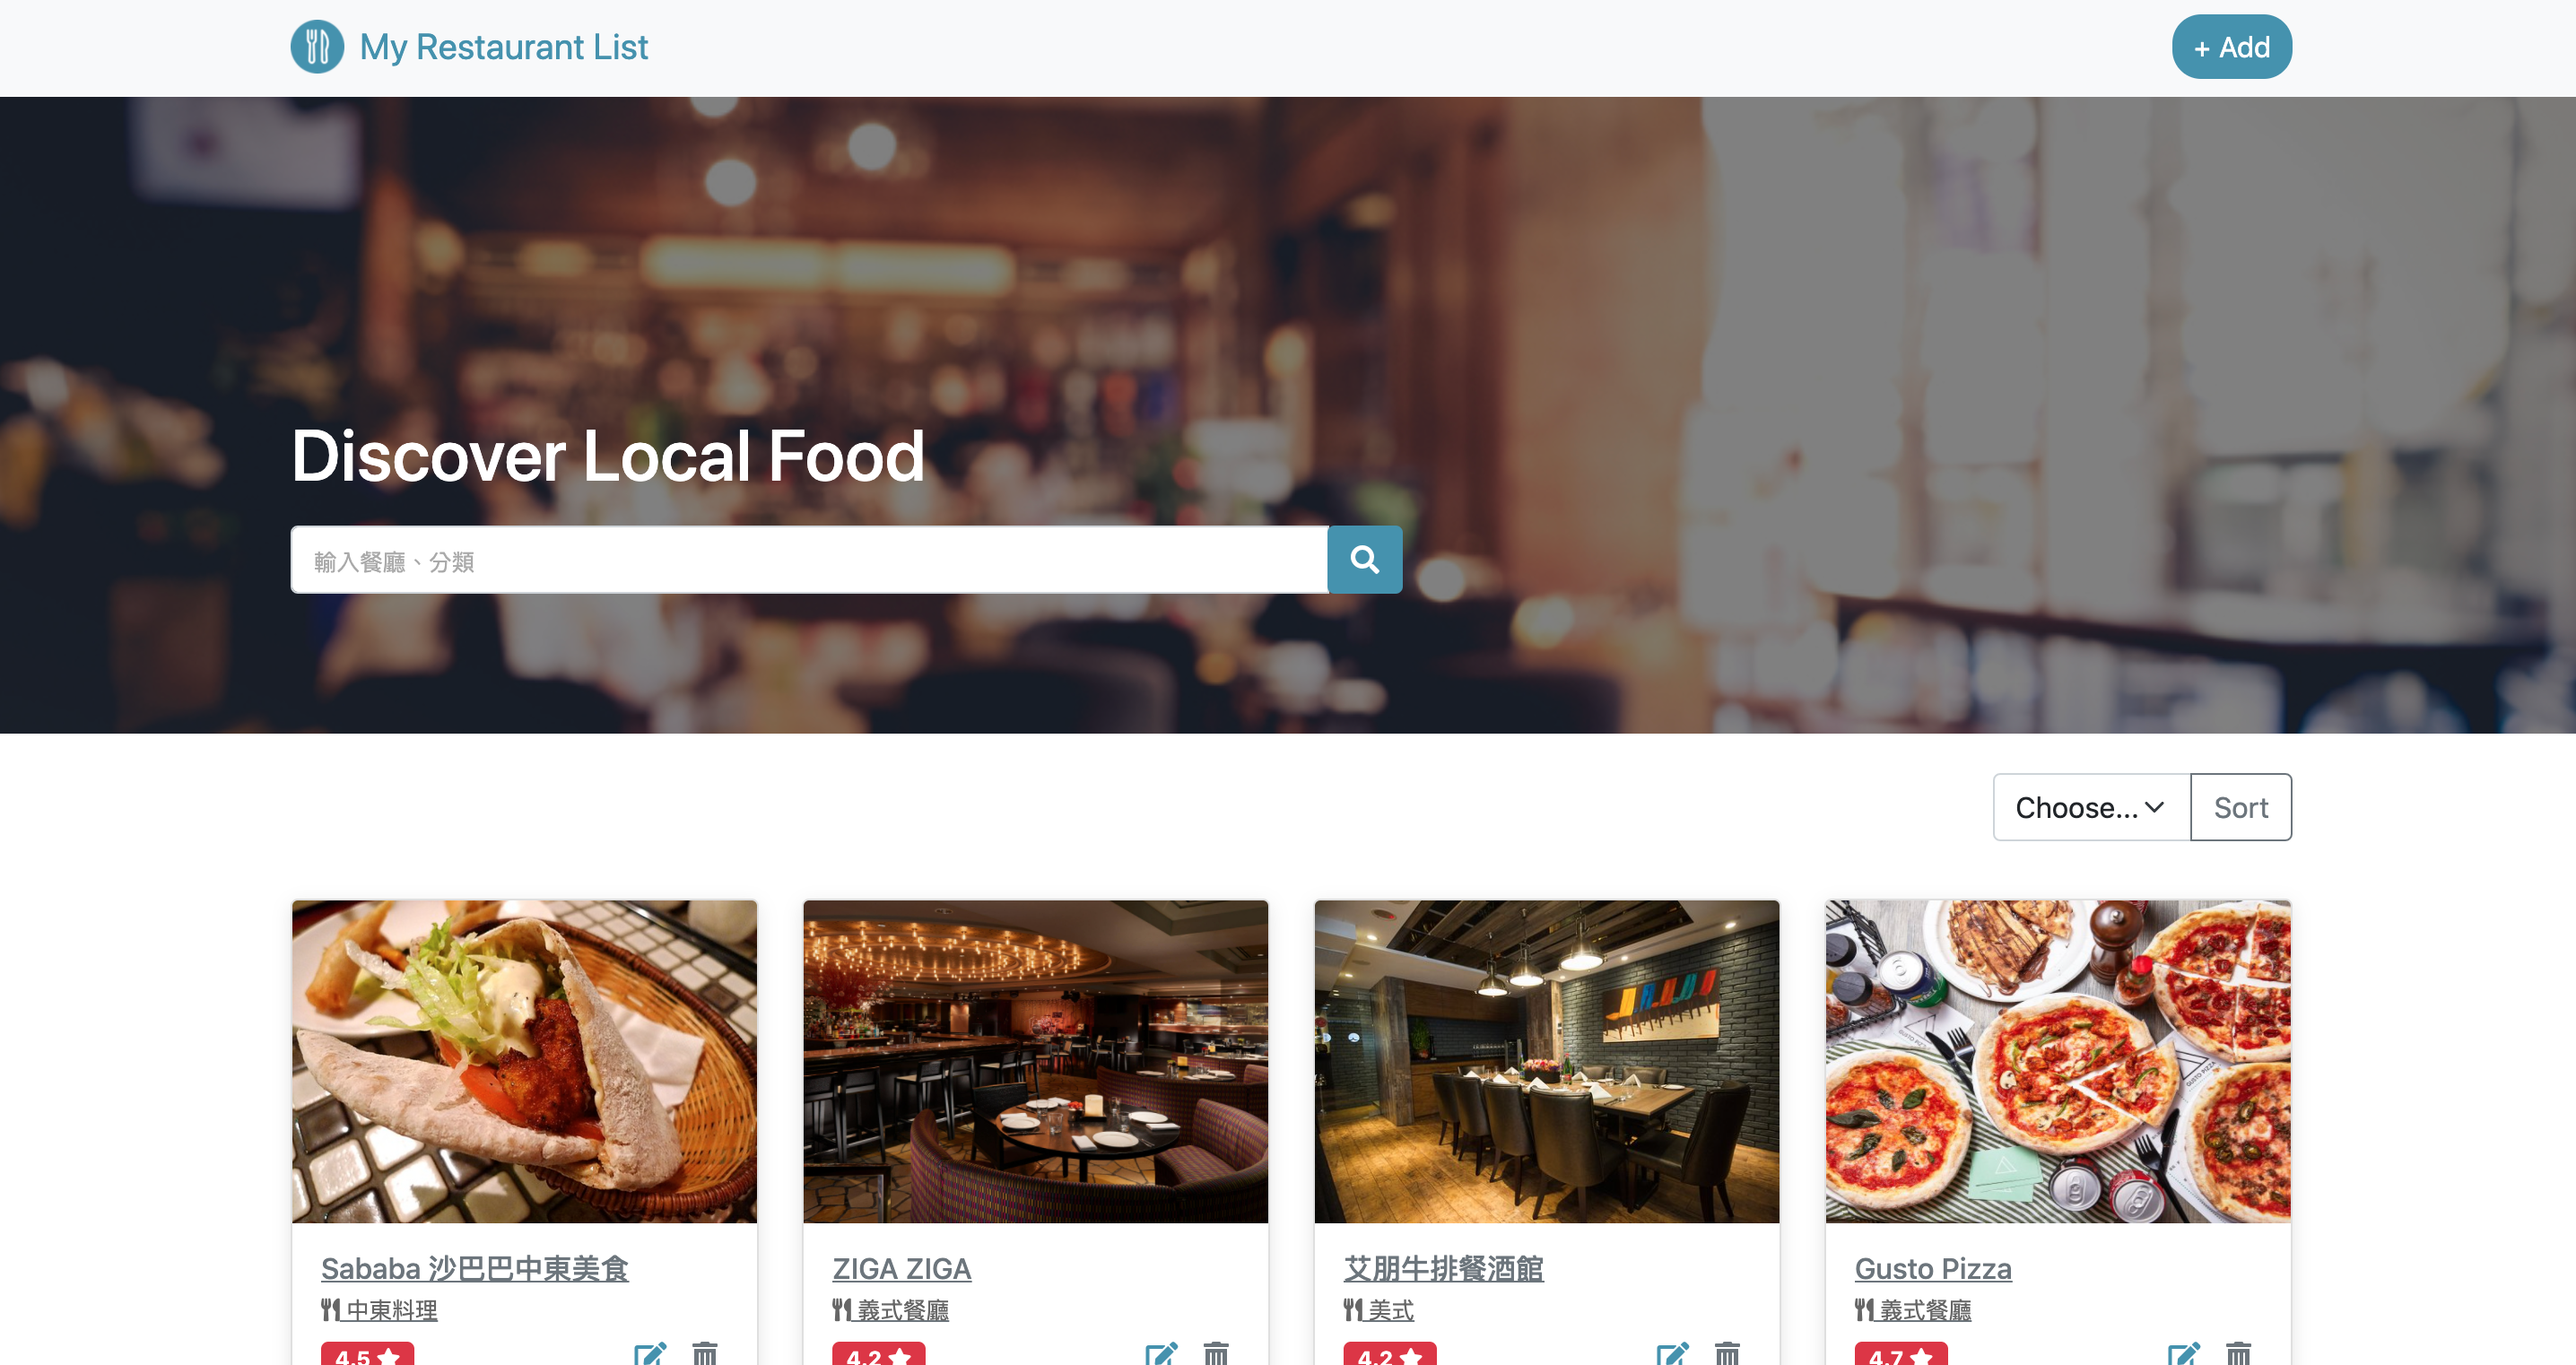
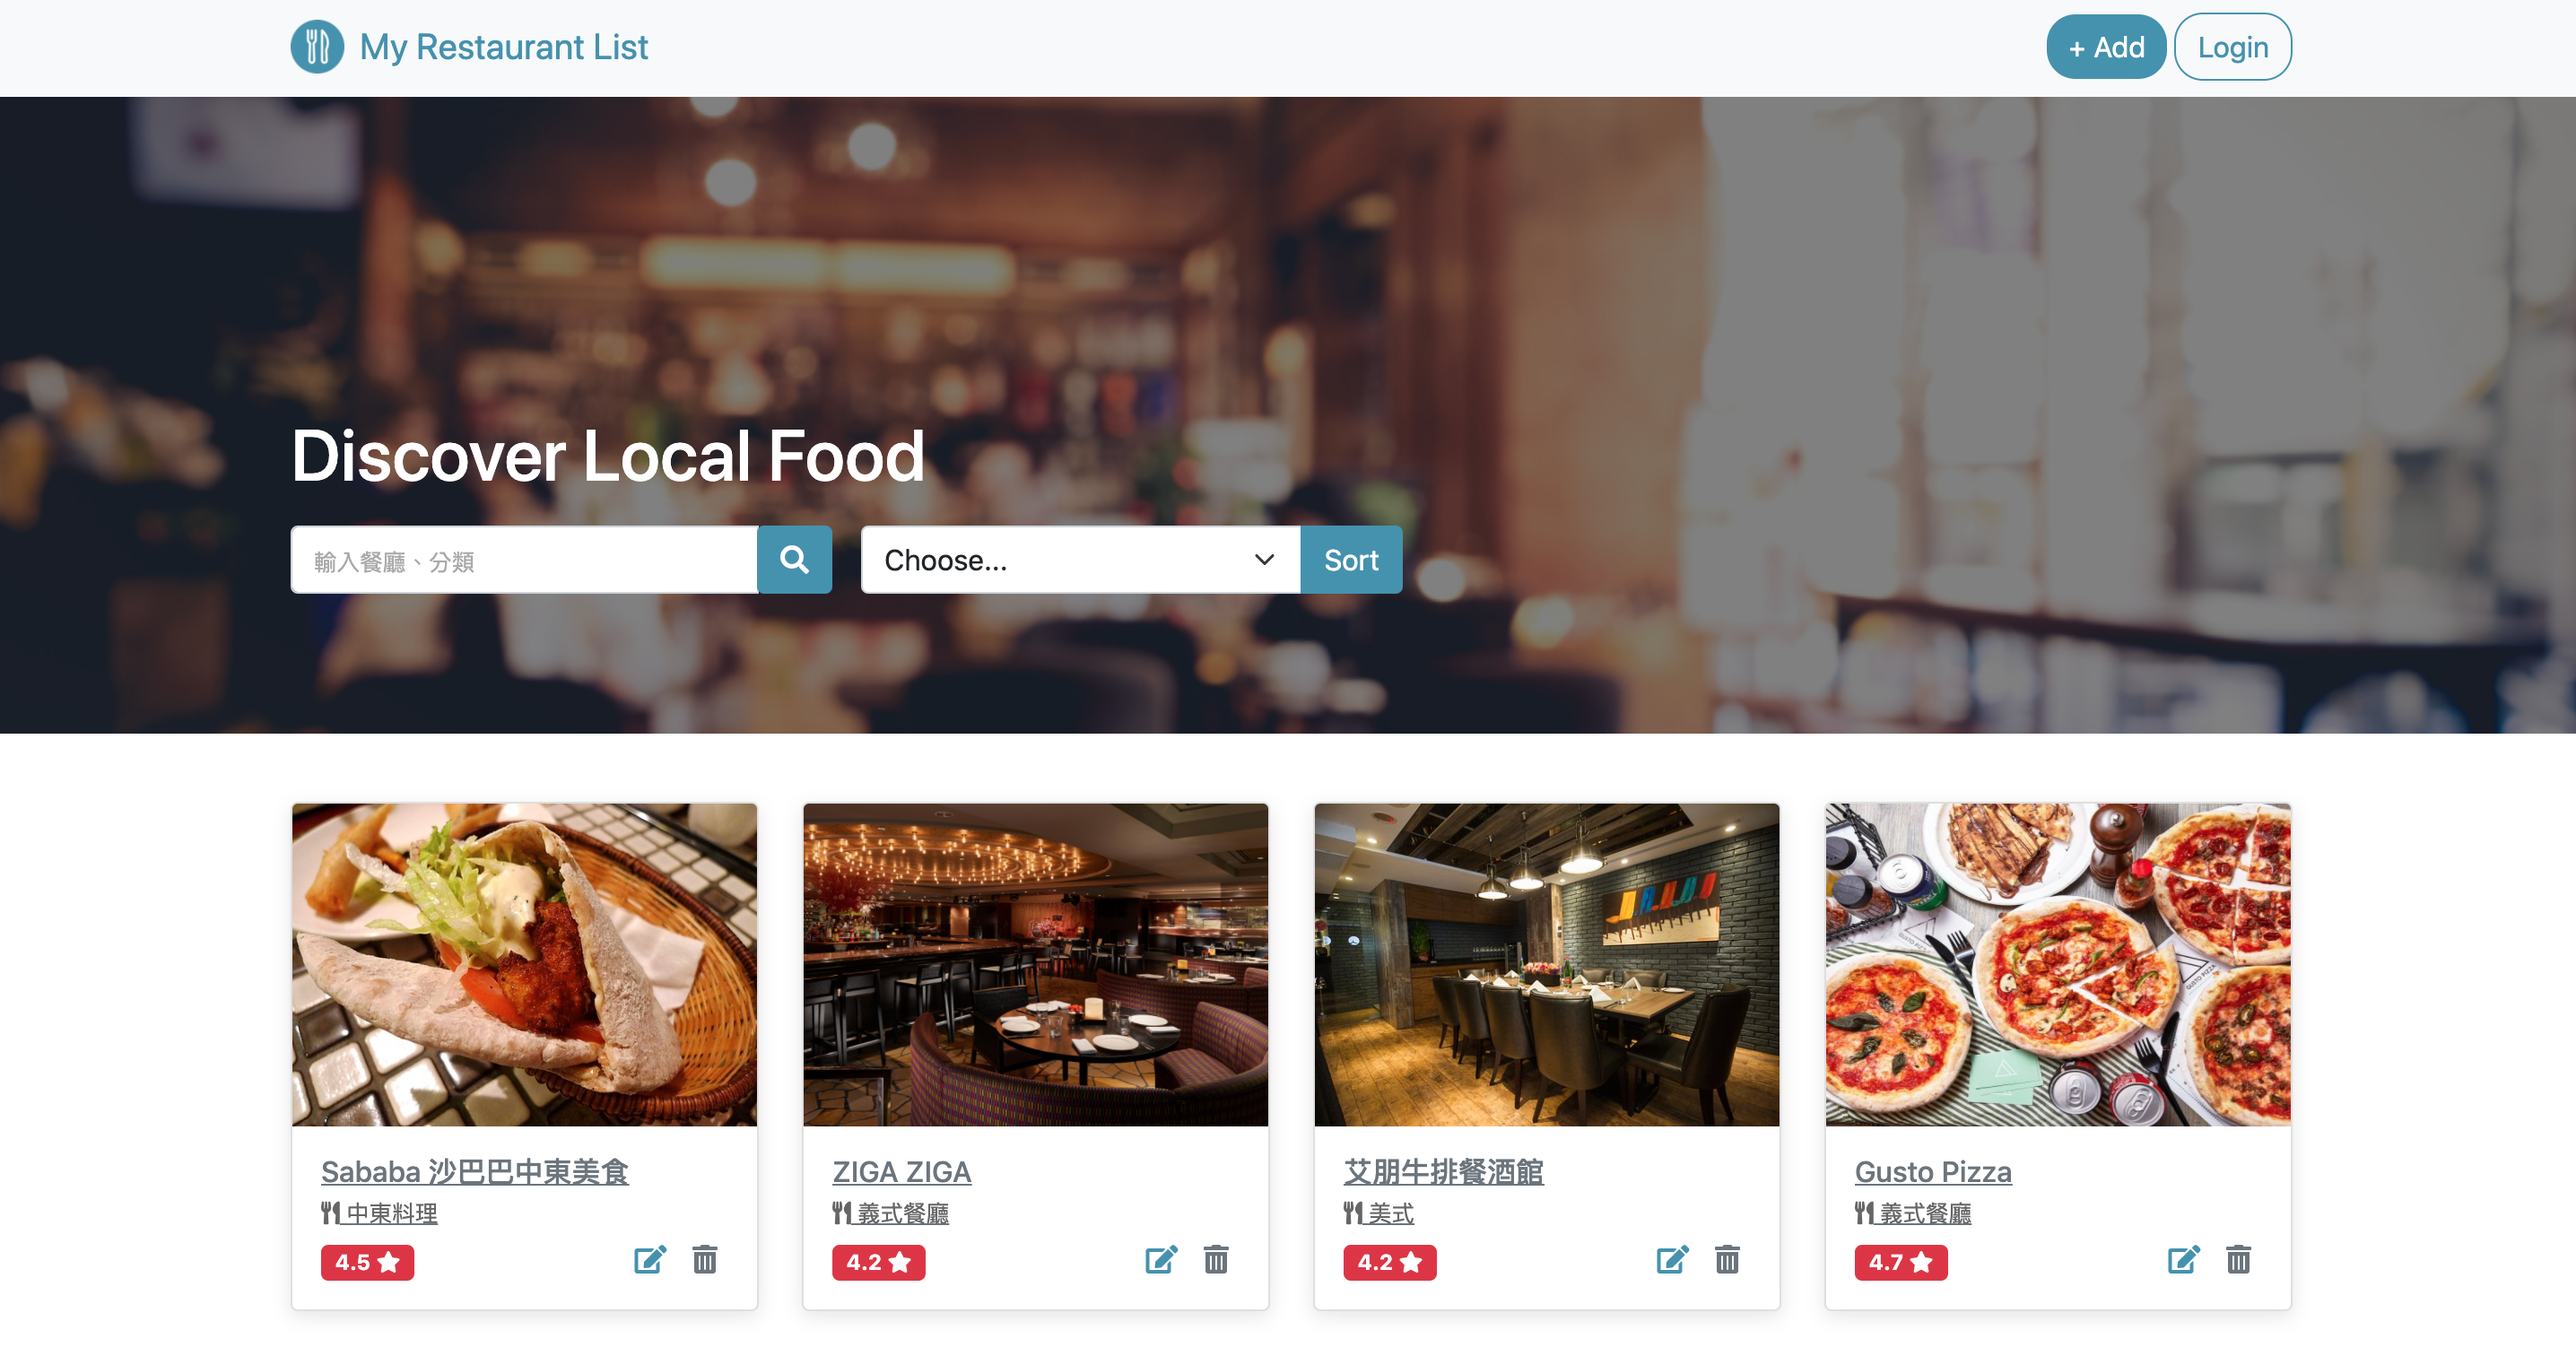
docs: update README.md

diff --git a/README.md b/README.md
@@ -11,6 +11,7 @@
 - 新增一筆餐廳資料
 - 修改一筆餐廳資料
 - 刪除一筆餐廳資料
+- 登入帳號
 
 ## 專案畫面
 
@@ -23,6 +24,12 @@
 
 ```
 git clone https://github.com/ivyhungtw/Restaurant-List.git
+```
+
+#### 移動至專案資料夾
+
+```
+cd Restaurant-List
 ```
 
 #### 安裝套件
